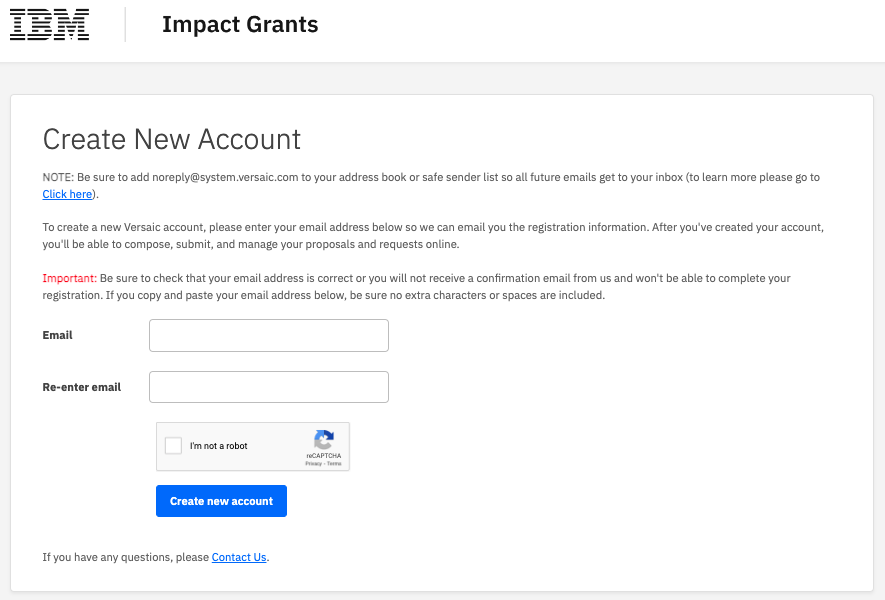
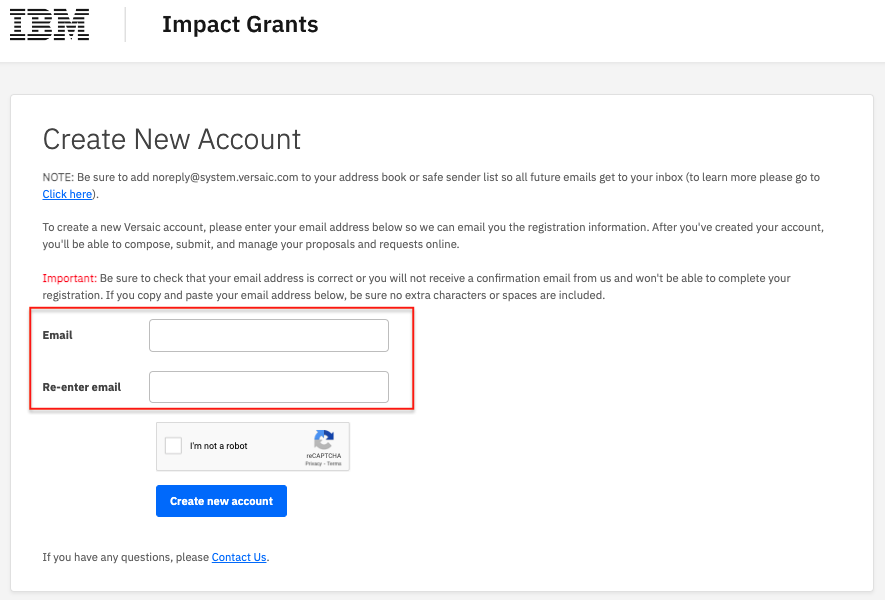
Test

Changed region(s): [[0.0305, 0.51, 0.4881, 0.69]]

diff --git a/documentation-main/ibm-impact-grants/how-to/how-to-create-portal-account/README.md b/documentation-main/ibm-impact-grants/how-to/how-to-create-portal-account/README.md
@@ -3,3 +3,13 @@
 # Step 1 - Visit [ibm.versaic.com](https://ibm.versaic.com) in a web browser
 
 ![Step 1](images/impact-grant-login-page.png) 
+
+## Step 2 - Click on <span style="color:blue">**Create an account**</span>
+
+![Step 2](images/impact-grant-create-acct.png) 
+
+## Step 3 - Enter a valid <span style="color:blue">**email address**</span> in both boxes. Check the **I'm not a robot** checkbox.
+
+![Step 3](images/step-n3.png) 
+
+## Click <span style="color:blue">**Create new account**</span> to proceed.
